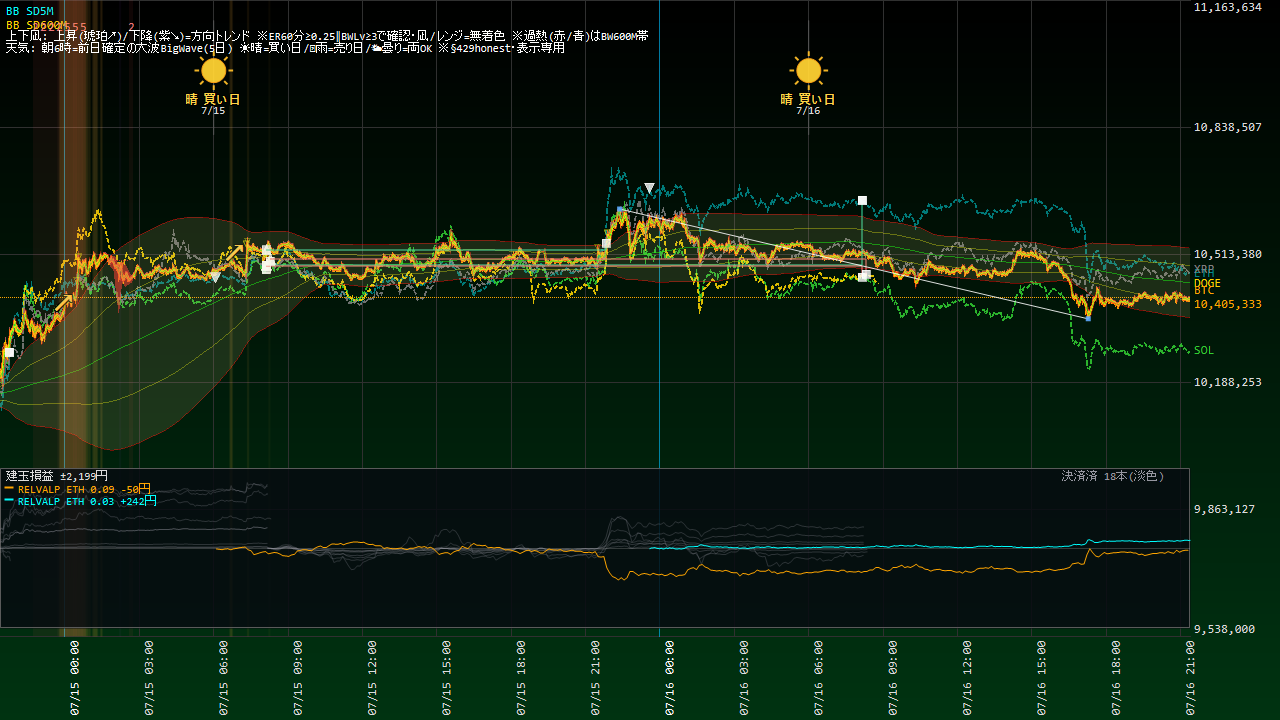
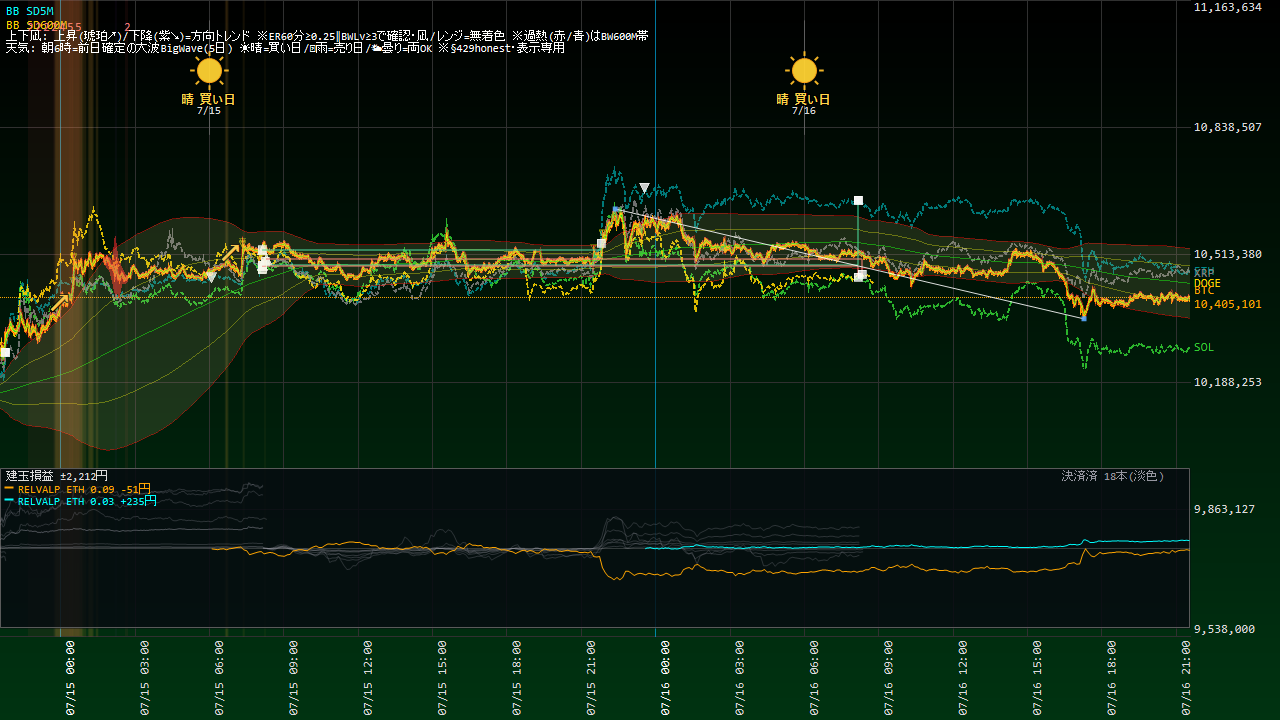
Coin100S 運用状況更新 07-16 21:35

diff --git a/coin100s-795hc4jfv8/index.html b/coin100s-795hc4jfv8/index.html
@@ -14,16 +14,16 @@ a{color:#60a5fa;text-decoration:none} a:hover{text-decoration:underline}
 .meta{color:#94a3b8;font-size:13px}</style>
 <script>setTimeout(function(){location.replace(location.pathname+"?t="+Date.now());},300000);</script></head><body>
 <h1>Coin100S ダッシュボード</h1>
-<p class="meta">スナップショット: 2026-07-16 21:28:57(自動リロード・最新化)</p>
+<p class="meta">スナップショット: 2026-07-16 21:34:57(自動リロード・最新化)</p>
 <div class="cards">
 <div class="card">建玉数<div class="v">2</div></div>
 <div class="card">本日損益<div class="v pos">+804円</div></div>
-<div class="card">評価損益<div class="v pos">+192円</div></div>
+<div class="card">評価損益<div class="v pos">+180円</div></div>
 </div>
 <h2>現在の建玉</h2>
-<table><tr><th>銘柄</th><th>側</th><th>数量</th><th>建値</th><th>含損益</th><th>レッグ</th></tr><tr><td>ETH_JPY</td><td>SELL</td><td>0.03</td><td>@313,051</td><td>+241円</td><td>RELVALP_SL700</td></tr><tr><td>ETH_JPY</td><td>SELL</td><td>0.09</td><td>@304,456</td><td>-49円</td><td>RELVALP_SELL</td></tr></table>
+<table><tr><th>銘柄</th><th>側</th><th>数量</th><th>建値</th><th>含損益</th><th>レッグ</th></tr><tr><td>ETH_JPY</td><td>SELL</td><td>0.03</td><td>@313,051</td><td>+238円</td><td>RELVALP_SL700</td></tr><tr><td>ETH_JPY</td><td>SELL</td><td>0.09</td><td>@304,456</td><td>-58円</td><td>RELVALP_SELL</td></tr></table>
 <p><a href="status.html"><b>▶ 運用状況の詳細(チャート・本日の取引・レジーム)</b></a></p>
 <h2>日報一覧</h2>
 <table><tr><th>取引日</th><th>実現損益</th><th>総括</th></tr><tr><td><a href='reports/20260715_Coin100S日報.html'>2026-07-15</a></td><td class="pos">+0円</td><td class='meta'>実取引: 新規6件/決済5件、実現損益 +0円。シグナル却下6件（最多: BW10M3_5M／トレンド方向ゲート(N分傾き上と不一致=逆張り方向のfade禁止)）。⚠警告/エラー 7件（要確認）。</td></tr><tr><td><a href='reports/20260714_Coin100S日報.html'>2026-07-14</a></td><td class="pos">+0円</td><td class='meta'>実取引: 新規6件/決済18件、実現損益 +0円。シグナル却下5件（最多: BW10M3_5M／トレンド方向ゲート(N分傾き上と不一致=逆張り方向のfade禁止)）。⚠警告/エラー 9件（要確認）。</td></tr><tr><td><a href='reports/20260713_Coin100S日報.html'>2026-07-13</a></td><td class="pos">+0円</td><td class='meta'>実取引: 新規5件/決済8件、実現損益 +0円。シグナル却下1件（最多: BW10M3_5M／トレンド方向ゲート(N分傾き上と不一致=逆張り方向のfade禁止)）。警告/孤児/エラーなし＝健全。</td></tr><tr><td><a href='reports/20260712_Coin100S日報.html'>2026-07-12</a></td><td class="pos">+0円</td><td class='meta'>実取引: 新規14件/決済6件、実現損益 +0円。シグナル却下5件（最多: BW10M3_5M／トレンド方向ゲート(N分傾き下と不一致=逆張り方向のfade禁止)）。⚠警告/エラー 2件（要確認）。</td></tr><tr><td><a href='reports/20260711_Coin100S日報.html'>2026-07-11</a></td><td class="pos">+0円</td><td class='meta'>実取引: 新規7件/決済6件、実現損益 +0円。⚠警告/エラー 52件（要確認）。</td></tr><tr><td><a href='reports/20260710_Coin100S日報.html'>2026-07-10</a></td><td class="pos">+0円</td><td class='meta'>実取引: 新規7件/決済6件、実現損益 +0円。シグナル却下6件（最多: BW10M3_5M／トレンド方向ゲート(N分傾き上と不一致=逆張り方向のfade禁止)）。警告/孤児/エラーなし＝健全。</td></tr><tr><td><a href='reports/20260709_Coin100S日報.html'>2026-07-09</a></td><td class="pos">+0円</td><td class='meta'>実取引: 新規8件/決済3件、実現損益 +0円。シグナル却下5件（最多: SD120M_5M／トレンド方向ゲート(N分傾き上と不一致=逆張り方向のfade禁止)）。警告/孤児/エラーなし＝健全。</td></tr><tr><td><a href='reports/20260708_Coin100S日報.html'>2026-07-08</a></td><td class="pos">+0円</td><td class='meta'>実取引: 新規2件/決済4件、実現損益 +0円。シグナル却下4件（最多: SD120M_5M／トレンド方向ゲート(N分傾き下と不一致=逆張り方向のfade禁止)）。警告/孤児/エラーなし＝健全。</td></tr><tr><td><a href='reports/20260707_Coin100S日報.html'>2026-07-07</a></td><td class="pos">+0円</td><td class='meta'>実取引: 新規8件/決済6件、実現損益 +0円。シグナル却下4件（最多: SD120M_5M／トレンド方向ゲート(N分傾き上と不一致=逆張り方向のfade禁止)）。⚠警告/エラー 258件（要確認）。</td></tr><tr><td><a href='reports/20260706_Coin100S日報.html'>2026-07-06</a></td><td class="pos">+0円</td><td class='meta'>実取引: 新規9件/決済6件、実現損益 +0円。シグナル却下9件（最多: SD120M_5M／トレンド方向ゲート(N分傾き上と不一致=逆張り方向のfade禁止)）。⚠警告/エラー 150件（要確認）。</td></tr><tr><td><a href='reports/20260705_Coin100S日報.html'>2026-07-05</a></td><td class="pos">+0円</td><td class='meta'>実取引: 新規8件/決済3件、実現損益 +0円。⚠警告/エラー 2件（要確認）。</td></tr><tr><td><a href='reports/20260704_Coin100S日報.html'>2026-07-04</a></td><td class="pos">+0円</td><td class='meta'>実取引: 新規1件/決済2件、実現損益 +0円。⚠警告/エラー 2件（要確認）。</td></tr><tr><td><a href='reports/20260703_Coin100S日報.html'>2026-07-03</a></td><td class="pos">+0円</td><td class='meta'>実取引: 新規5件/決済4件、実現損益 +0円。⚠警告/エラー 15件（要確認）。</td></tr><tr><td><a href='reports/20260702_Coin100S日報.html'>2026-07-02</a></td><td class="pos">+0円</td><td class='meta'>実取引: 新規7件/決済5件、実現損益 +0円。シグナル却下17件（最多: SD120M_5M／トレンド方向ゲート(N分傾き上と不一致=逆張り方向のfade禁止)）。⚠警告/エラー 26件（要確認）。</td></tr><tr><td><a href='reports/20260701_Coin100S日報.html'>2026-07-01</a></td><td class="pos">+0円</td><td class='meta'>実取引: 新規14件/決済8件、実現損益 +0円。シグナル却下14件（最多: SD120M_5M／ボラ軸ゲート(SDN%&amp;gt;N%=高ボラ/荒れレンジ)）。⚠警告/エラー 2件（要確認）。</td></tr><tr><td><a href='reports/20260630_Coin100S日報.html'>2026-06-30</a></td><td class="pos">+0円</td><td class='meta'>実取引: 新規0件/決済1件、実現損益 +0円。シグナル却下29件（最多: 微5M／当日枠N）。警告/孤児/エラーなし＝健全。</td></tr></table>
-<hr><p class="meta">更新: 2026-07-16 21:29:05 / 自動生成: tools/web_publish.py(§580)</p>
+<hr><p class="meta">更新: 2026-07-16 21:35:05 / 自動生成: tools/web_publish.py(§580)</p>
 </body></html>

diff --git a/coin100s-795hc4jfv8/status.html b/coin100s-795hc4jfv8/status.html
@@ -14,22 +14,22 @@ a{color:#60a5fa;text-decoration:none} a:hover{text-decoration:underline}
 .meta{color:#94a3b8;font-size:13px}</style>
 <script>setTimeout(function(){location.replace(location.pathname+"?t="+Date.now());},300000);</script></head><body>
 <h1>Coin100S 運用状況</h1>
-<p class="meta">スナップショット: 2026-07-16 21:28:57 / ページ生成: 2026-07-16 21:29:05(自動リロード・最新化) / <a href="index.html">目次へ</a></p>
+<p class="meta">スナップショット: 2026-07-16 21:34:57 / ページ生成: 2026-07-16 21:35:05(自動リロード・最新化) / <a href="index.html">目次へ</a></p>
 <div class="cards">
 <div class="card">建玉数<div class="v">2</div></div>
 <div class="card">本日損益<div class="v pos">+804円</div></div>
-<div class="card">評価損益<div class="v pos">+192円</div></div>
+<div class="card">評価損益<div class="v pos">+180円</div></div>
 </div>
 <h2>資産推移(直近30日)</h2>
-<img src="status_equity.png?t=2129" alt="equity">
+<img src="status_equity.png?t=2135" alt="equity">
 <h2>取引チャート(直近24h)</h2>
-<img src="status_chart.png?t=2129" alt="chart">
+<img src="status_chart.png?t=2135" alt="chart">
 <h2>建玉一覧</h2>
-<table><tr><th>銘柄</th><th>側</th><th>数量</th><th>建値</th><th>含損益</th><th>レッグ</th></tr><tr><td>ETH_JPY</td><td>SELL</td><td>0.03</td><td>@313,051</td><td>+241円</td><td>RELVALP_SL700</td></tr><tr><td>ETH_JPY</td><td>SELL</td><td>0.09</td><td>@304,456</td><td>-49円</td><td>RELVALP_SELL</td></tr></table>
+<table><tr><th>銘柄</th><th>側</th><th>数量</th><th>建値</th><th>含損益</th><th>レッグ</th></tr><tr><td>ETH_JPY</td><td>SELL</td><td>0.03</td><td>@313,051</td><td>+238円</td><td>RELVALP_SL700</td></tr><tr><td>ETH_JPY</td><td>SELL</td><td>0.09</td><td>@304,456</td><td>-58円</td><td>RELVALP_SELL</td></tr></table>
 <h2>実現決済履歴(直近15件・OrderId単位)</h2>
 <table><tr><th>決済時刻</th><th>レッグ</th><th>銘柄</th><th>実現損益</th></tr><tr><td>07-16 08:21</td><td>TENKI5D_REV_DOGE</td><td>DOGE</td><td class="neg">-125円</td></tr><tr><td>07-16 08:12</td><td>TENKI5D_REV_ETH</td><td>ETH</td><td class="pos">+740円</td></tr><tr><td>07-16 08:12</td><td>TENKI5D_REV_ETH</td><td>ETH</td><td class="pos">+555円</td></tr><tr><td>07-16 08:12</td><td>TENKI5D_REV_SOL</td><td>SOL</td><td class="neg">-193円</td></tr><tr><td>07-15 21:51</td><td>TENKI5D_REV_BTC</td><td>BTC</td><td class="pos">+94円</td></tr><tr><td>07-15 08:18</td><td>TENKI5D_REV_DOGE</td><td>DOGE</td><td class="pos">+858円</td></tr><tr><td>07-15 08:09</td><td>TENKI5D_REV_ETH</td><td>ETH</td><td class="pos">+601円</td></tr><tr><td>07-15 08:09</td><td>TENKI5D_REV_ETH</td><td>ETH</td><td class="pos">+2,402円</td></tr><tr><td>07-15 08:09</td><td>TENKI5D_REV_SOL</td><td>SOL</td><td class="pos">+1,812円</td></tr><tr><td>07-15 08:09</td><td>TENKI5D_REV_BTC</td><td>BTC</td><td class="pos">+1,850円</td></tr><tr><td>07-14 21:47</td><td>SIGFADE_ETH</td><td>ETH</td><td class="neg">-350円</td></tr><tr><td>07-14 21:47</td><td>SIGFADE_ETH</td><td>ETH</td><td class="neg">-141円</td></tr><tr><td>07-14 08:15</td><td>TENKI5D_REV_DOGE</td><td>DOGE</td><td class="pos">+267円</td></tr><tr><td>07-14 08:06</td><td>TENKI5D_REV_SOL</td><td>SOL</td><td class="pos">+1,011円</td></tr><tr><td>07-14 08:06</td><td>TENKI5D_REV_BTC</td><td>BTC</td><td class="pos">+819円</td></tr></table>
 <!-- §799c 「本取引日の実取引(6:00起点)」テーブルは公開ページから削除(ユーザー指示2026-07-15・数量/指値まで晒す情報漏れ)。建玉/実現損益は許可・実発注の生取引明細は非公開 -->
 <h2>現在レジーム(3軸・§570c)</h2>
-<ul><li>アルト対BTC 5日: <b>+5bps</b>(アルト優越=RELVAL逆風)</li><li>BTC ER240m: <b>0.009</b>(閾値0.25→レンジ(fade順風/BWTRD逆風))</li><li>BTC実現ボラ240m: <b>3.51</b> bps/分</li></ul>
+<ul><li>アルト対BTC 5日: <b>+5bps</b>(アルト優越=RELVAL逆風)</li><li>BTC ER240m: <b>0.008</b>(閾値0.25→レンジ(fade順風/BWTRD逆風))</li><li>BTC実現ボラ240m: <b>3.48</b> bps/分</li></ul>
 <hr><p class="meta">自動生成: tools/web_publish.py(§580・読み取り専用)。売買判断はアプリ本体。</p>
 </body></html>
